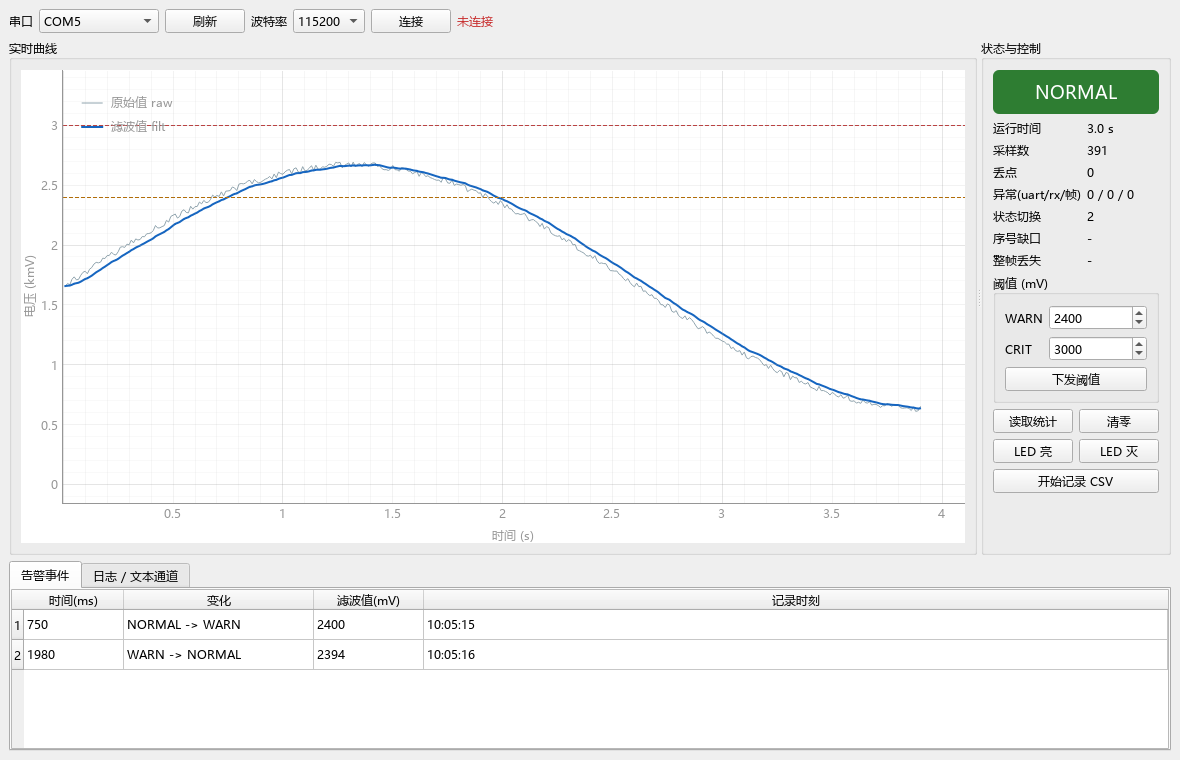
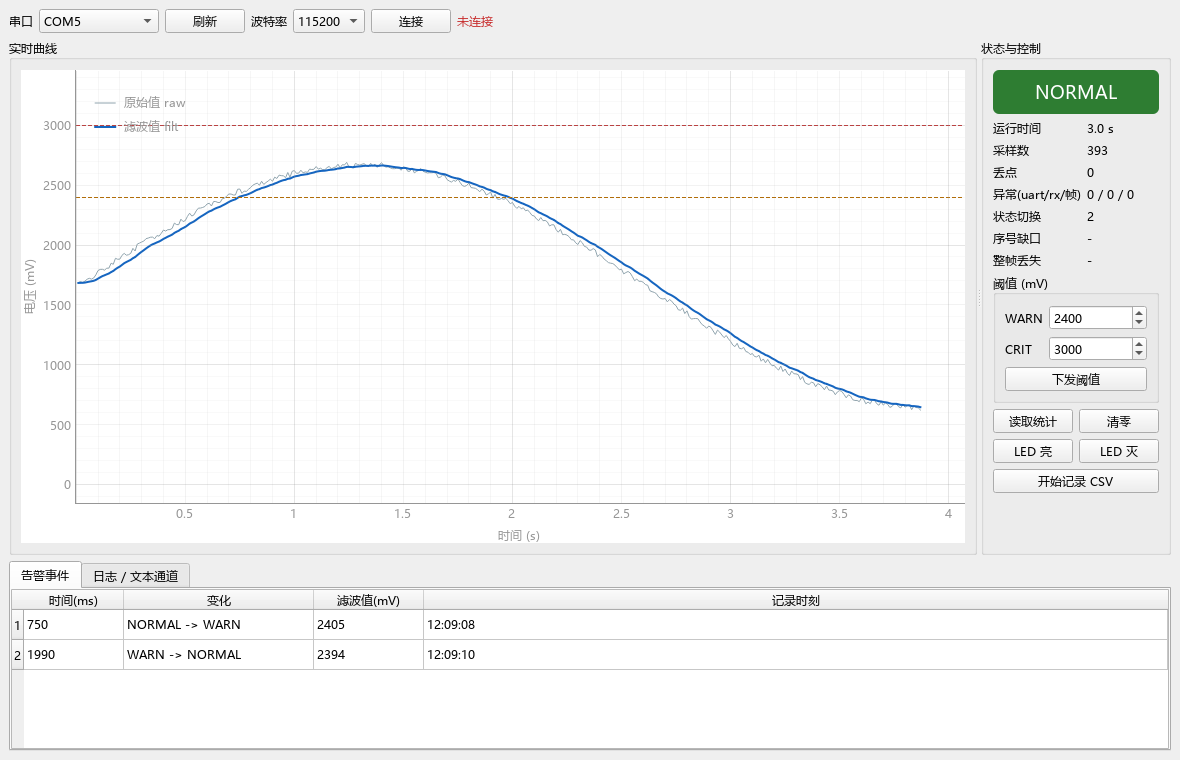
fix(ui): 坐标轴不再自动加 SI 前缀；串口说明改为现象记录
1) 坐标轴
   pyqtgraph 默认给刻度加 SI 前缀，时间轴被写成 1.6 ks、电压轴 3 kmV。
   固定单位（秒/毫伏）下这层换算没有意义，还会误导读数。
   对 bottom/left 两条轴调用 enableAutoSIPrefix(False)，现在显示 1600 s / 3000 mV。
   两张截图已重新生成（gui_demo.png 393 点、gui_real_serial.png 1596 点）。

2) 措辞
   原注释/报告写"pyserial 的 read(n) 永远不会因超时返回"，这是把观测现象说成了
   通用结论。改为："在本机（Windows + CH340 + pyserial 3.5）实测观察到……具体
   与驱动/版本的关系尚未查证，属现象记录；改用 in_waiting 后现象消失。"
   涉及 link.py、calib.py、soak.py、TEST_REPORT §9.1.1 与 §10。

单测 28 项 OK；界面冒烟 PASS；真机截图 1596 点、0 丢点。固件未改（Code=20700）。

diff --git a/host/link.py b/host/link.py
@@ -70,10 +70,12 @@ class SerialWorker(QThread):
                 break
 
             # 2) 接收
-            #    必须按 in_waiting 取，不能 read(4096)：
-            #    pyserial 的 read(n) 会一直累积到凑满 n 字节才返回，只要数据不断流
-            #    就永远不会因超时返回。链路上约 1.7 KB/s，凑满 4096 B 要 2.3 s，
-            #    结果就是界面 2 秒级卡顿 + 一次性涌入（实测 6 s 只处理到 468 点）。
+            #    按 in_waiting 取，不用 read(4096)。
+            #    在本机（Windows + CH340 + pyserial 3.5）实测观察到：read(n) 会一直
+            #    累积到凑满 n 字节才返回，数据持续流入时不会在 timeout 处停下。
+            #    链路约 1.7 KB/s，凑满 4096 B 要 2.3 s，表现为界面 2 秒级卡顿 + 一次性
+            #    涌入（6 s 只统计到 468 点）。具体与驱动/版本的关系尚未查证，属现象记录；
+            #    改成 in_waiting 后现象消失（16 s 收到 1597 点）。
             try:
                 n = self._ser.in_waiting
                 if n == 0:

diff --git a/host/tools/calib.py b/host/tools/calib.py
@@ -61,10 +61,11 @@ def main():
     t0 = time.time()
     print("串口 %s，目标采集 %.1f 秒……" % (port, SECONDS))
     while time.time() - t0 < SECONDS:
-        # 必须按 in_waiting 取，不能 read(8192)：
-        # pyserial 的 read(n) 会一直累积到凑满 n 字节才返回，数据一直在流时
-        # 它就永远不会因为超时返回 —— 115200 下约 1.7 KB/s，凑满 8192 B 要 4.7 s，
-        # 于是"请求 3 秒"实际会跑 4.7 秒、请求 5 秒会跑 9.4 秒（多一个读周期）。
+        # 按 in_waiting 取，不用 read(8192)。
+        # 本机（Windows + CH340 + pyserial 3.5）实测：read(n) 会累积到凑满 n 字节
+        # 才返回，数据持续流入时不会在 timeout 处停下；1.7 KB/s 下凑满 8192 B 要 4.7 s，
+        # 于是"请求 3 秒"跑成 4.69 秒、"请求 5 秒"跑成 9.41 秒（多一个读周期）。
+        # 具体机制/是否与驱动版本有关尚未查证，此处只记录观测到的现象。
         n = ser.in_waiting
         if n == 0:
             time.sleep(0.005)

diff --git a/host/tools/soak.py b/host/tools/soak.py
@@ -78,9 +78,11 @@ def main():
             break
 
         try:
-            # 按 in_waiting 取：read(n) 会累积到凑满 n 字节才返回，数据不断流时
-            # 永不超时，115200 下凑满 8192 B 要 4.7 s —— 这正是 SOAK_10MIN 里
-            # 每分钟采样数在 6107 / 5635 之间跳动的根因（打点被推迟了一个读周期）。
+            # 按 in_waiting 取：本机（Windows + CH340 + pyserial 3.5）实测，
+            # read(n) 会累积到凑满 n 字节才返回，数据持续流入时不在 timeout 处停下；
+            # 1.7 KB/s 下凑满 8192 B 要 4.7 s —— 这是 SOAK_10MIN 里每分钟采样数
+            # 在 6107 / 5635 之间跳动的观测到的原因（打点被推迟一个读周期）。
+            # 具体机制尚未查证，改用 in_waiting 后波动消失。
             n_avail = ser.in_waiting
             if n_avail == 0:
                 time.sleep(0.005)

diff --git a/host/main.py b/host/main.py
@@ -247,6 +247,10 @@ class MainWindow(QMainWindow):
         self.plot.showGrid(x=True, y=True, alpha=0.25)
         self.plot.setLabel("bottom", "时间", units="s")
         self.plot.setLabel("left", "电压", units="mV")
+        # 关掉自动 SI 前缀：否则坐标轴会被渲染成 ks / kmV（1600 s 显示成 1.6 ks），
+        # 对我们这种固定单位（秒 / 毫伏）毫无意义，反而误导读数。
+        self.plot.getAxis("bottom").enableAutoSIPrefix(False)
+        self.plot.getAxis("left").enableAutoSIPrefix(False)
         self.plot.setYRange(0, 3300)
         self.plot.addLegend(offset=(10, 10))
         self.curve_raw = self.plot.plot(pen=pg.mkPen("#90A4AE", width=1), name="原始值 raw")
